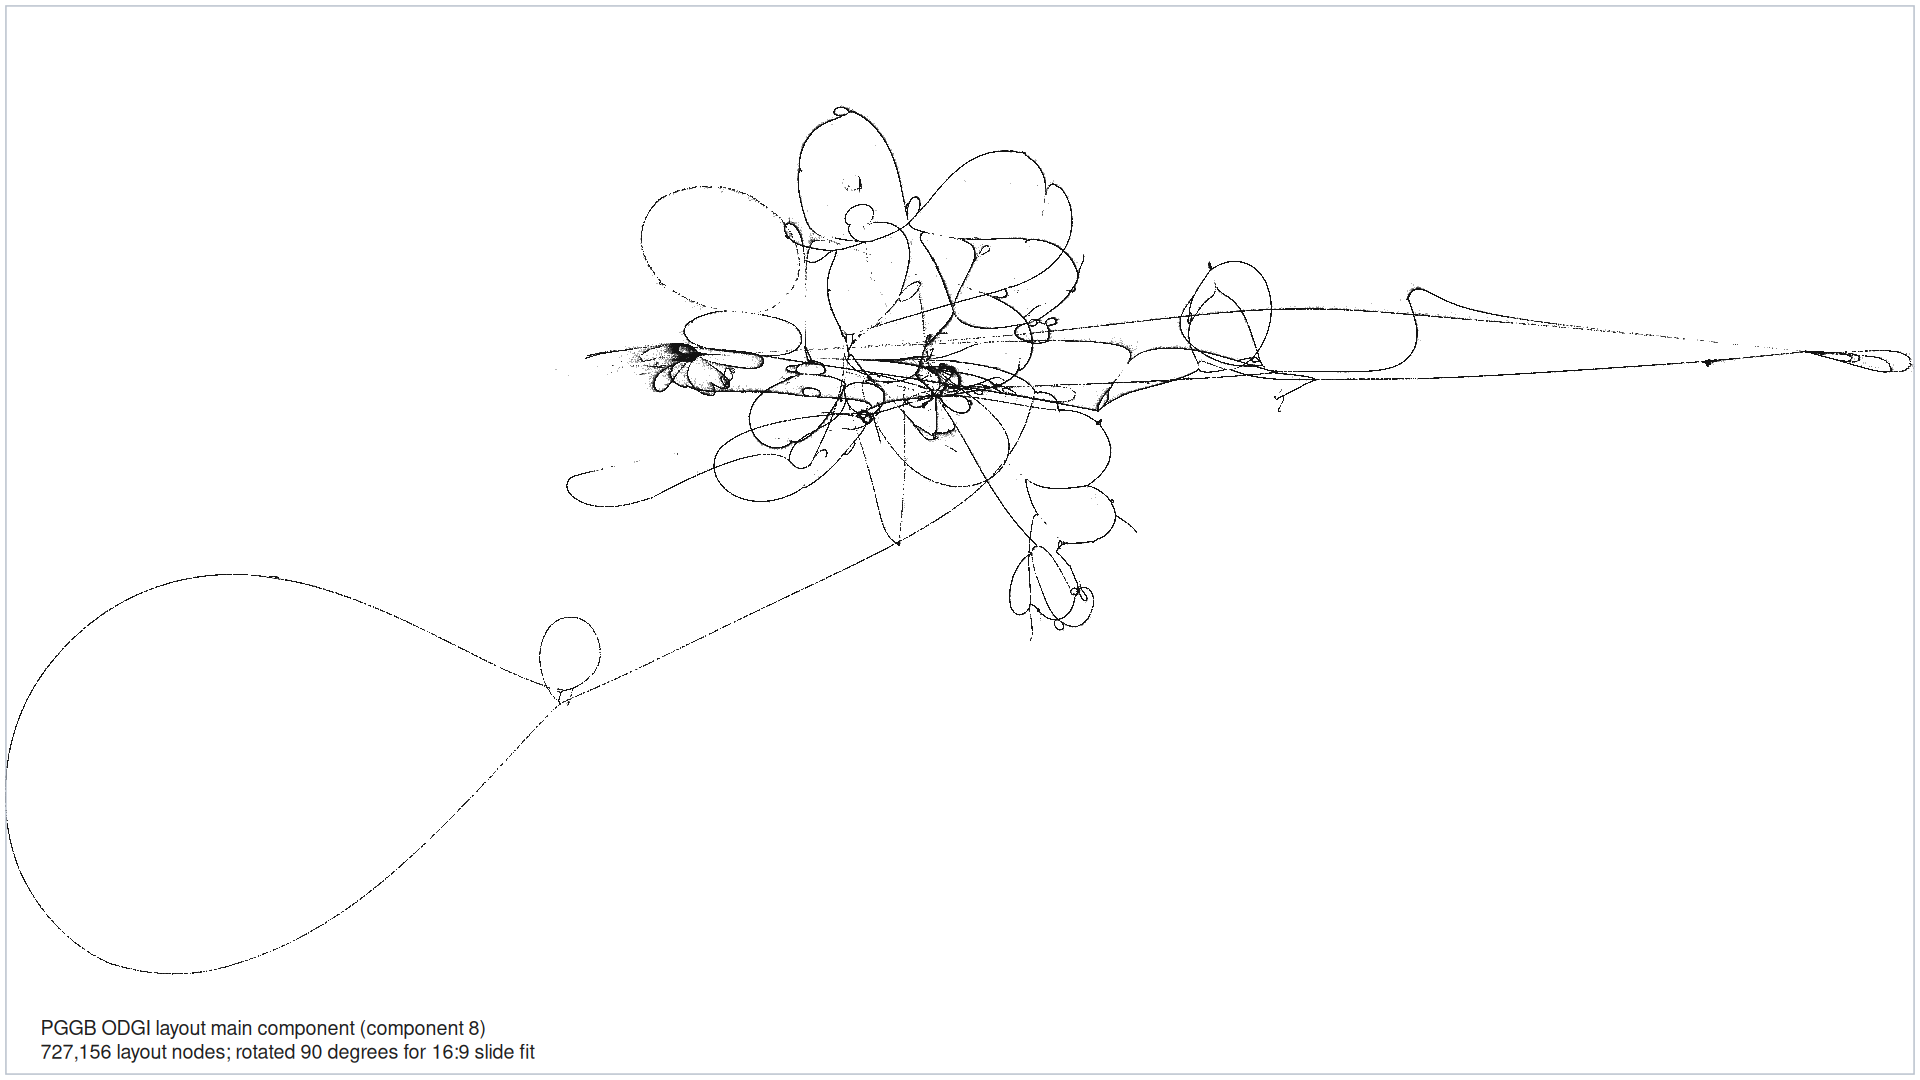
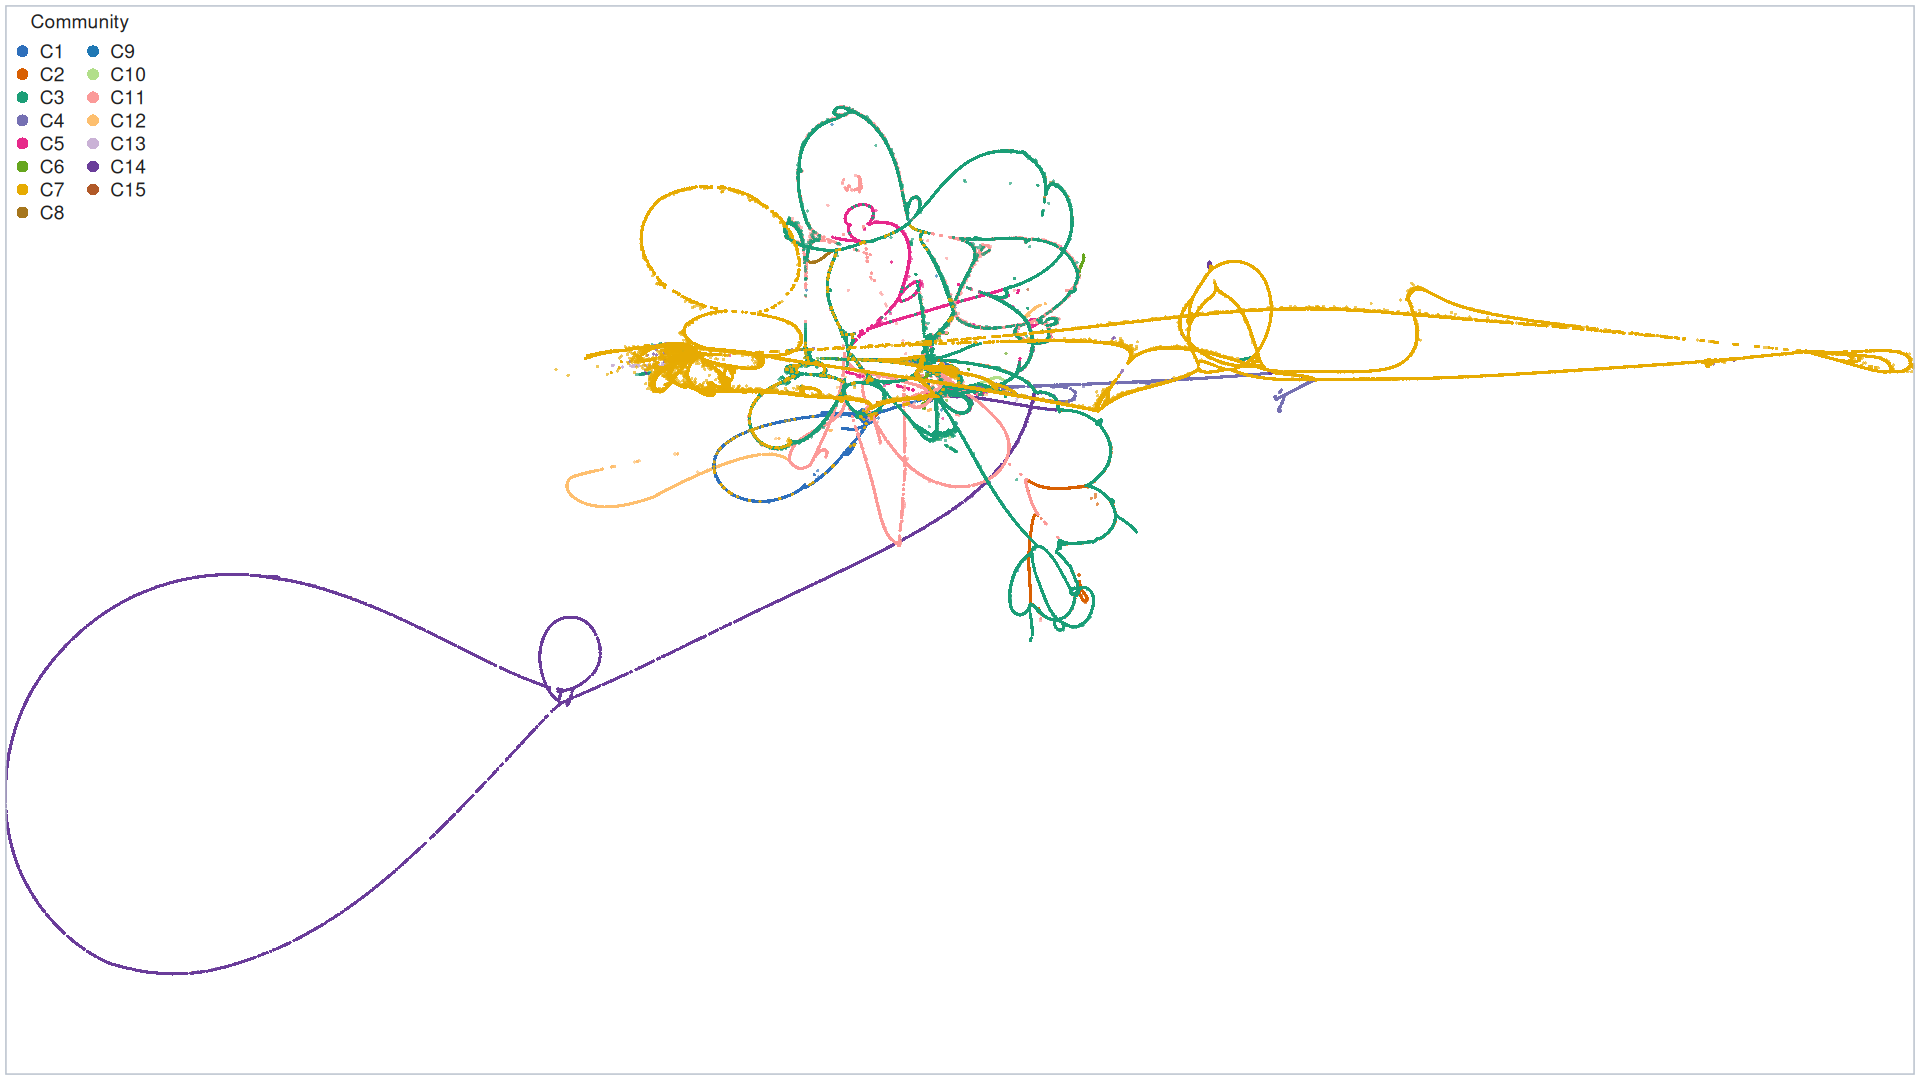
fig2a color by comm

diff --git a/submission/paper.tex b/submission/paper.tex
@@ -337,9 +337,11 @@ Group for generating and interpreting these data.
   \includegraphics[width=\linewidth]{fig/MainFigures/Fig2bc_jaccard.pdf}
   \caption{\textbf{Pangenome similarity structure and communities.}
     \textbf{(A)} PGGB/odgi 2D layout of the all-subtelomere PHR graph (727,156
-    layout nodes; main connected component). All 15,668 PHR flanks fall into a
-    single component, so subtelomeres are linked across non-homologous
-    chromosomes rather than partitioned by chromosome.
+    layout nodes; main connected component), each node colored by the arm-level
+    Leiden community of the PHR paths crossing it (same community palette as
+    panel B). All 15,668 PHR flanks fall into a single component, so subtelomeres
+    are linked across non-homologous chromosomes rather than partitioned by
+    chromosome, yet the communities occupy distinct regions of the layout.
     \textbf{(B)} Arm-level Jaccard similarity heatmap ($41 \times 41$), shown
     twice. \emph{Left}, ordered by an average-linkage UPGMA dendrogram used as a
     display order for similar subtelomeric PHR profiles (p-arms red, q-arms
@@ -507,8 +509,10 @@ Output: 15,668 PHRs (83.2\% of flanks), 41 of 48 arms.
 \texttt{pggb -p 95 -D /scratch}; \texttt{odgi similarity --all -P} over the
 15,668 sequences yields the $15668 \times 15668$ Jaccard matrix
 \cite{Garrison2024pggb,pangenome_graphs_impg_GuarracinoHeumos2022,andreace2023pangenome,heumos2024nfcore}.
-The single connected component is rendered with \texttt{odgi layout} +
-\texttt{odgi draw} (Fig.~\ref{fig:fig2}A).
+The single connected component is positioned with \texttt{odgi layout} and
+rendered from the layout coordinates in R, each node colored by the dominant
+arm-level Leiden community of the PHR paths crossing it
+(\texttt{make\_fig2a\_pggb\_layout.R}; Fig.~\ref{fig:fig2}A).
 
 \subsection*{Arm-level distance matrix}
 

diff --git a/submission/scripts/figures/README.md b/submission/scripts/figures/README.md
@@ -16,7 +16,7 @@ live in the repo.
 |---|---|---|
 | Fig1a | computed | HPRCv2 repo `plot-impg-coverage.inter-chr-map.R` (external clone) |
 | Fig1b | computed | deck `v9/06a_q_axis_kbp/make_06a_q_axis_kbp.R` |
-| Fig2a | computed | deck `v6/pggb_graph_black/render_pggb_layout_component8_black.R` |
+| Fig2a | computed | `make_fig2a_pggb_layout.R` (here) — odgi layout main component, nodes colored by arm-level Leiden community (same palette as Fig2b); inputs `data/fig2a_pggb_layout.og.lay.tsv.gz` + `data/fig2a_node_community.tsv.gz` |
 | Fig2b+2c | computed | `make_fig2bc_jaccard_heatmaps.R` (here) — one combined `Fig2bc_jaccard` file, both panels + one shared legend |
 | Fig4a | computed | `make_fig4a_human_scatter.R` (here) — HG002 Pore-C all-points (single panel); full 2-panel HG002+CHM13 kept in `_backup/make_fig4a_human_scatter_full.R` |
 | Fig4b | computed | `make_fig4b_porec_community.R` (here) — Pore-C matrix + community colour bands/labels |
@@ -32,6 +32,7 @@ Fig3 panels are `.png`.
 ## Computed — scripts here (location-aware, run from anywhere)
 
 ```bash
+Rscript submission/scripts/figures/make_fig2a_pggb_layout.R        # Fig2a  odgi layout main component, nodes colored by arm-level Leiden community
 Rscript submission/scripts/figures/make_fig2bc_jaccard_heatmaps.R  # Fig2bc combined tree- + community-ordered Jaccard heatmaps
 Rscript submission/scripts/figures/make_fig4a_human_scatter.R      # Fig4a  HG002 Pore-C all-points rho=0.381 n=2830 (single panel)
 Rscript submission/scripts/figures/make_ed1_human_contacts.R     # ED1    3-panel replicate: CHM13 Hi-C 0.716/652, HG002 Hi-C 0.662/2544, HG002 CiFi 0.191/2757 (50 kbp)